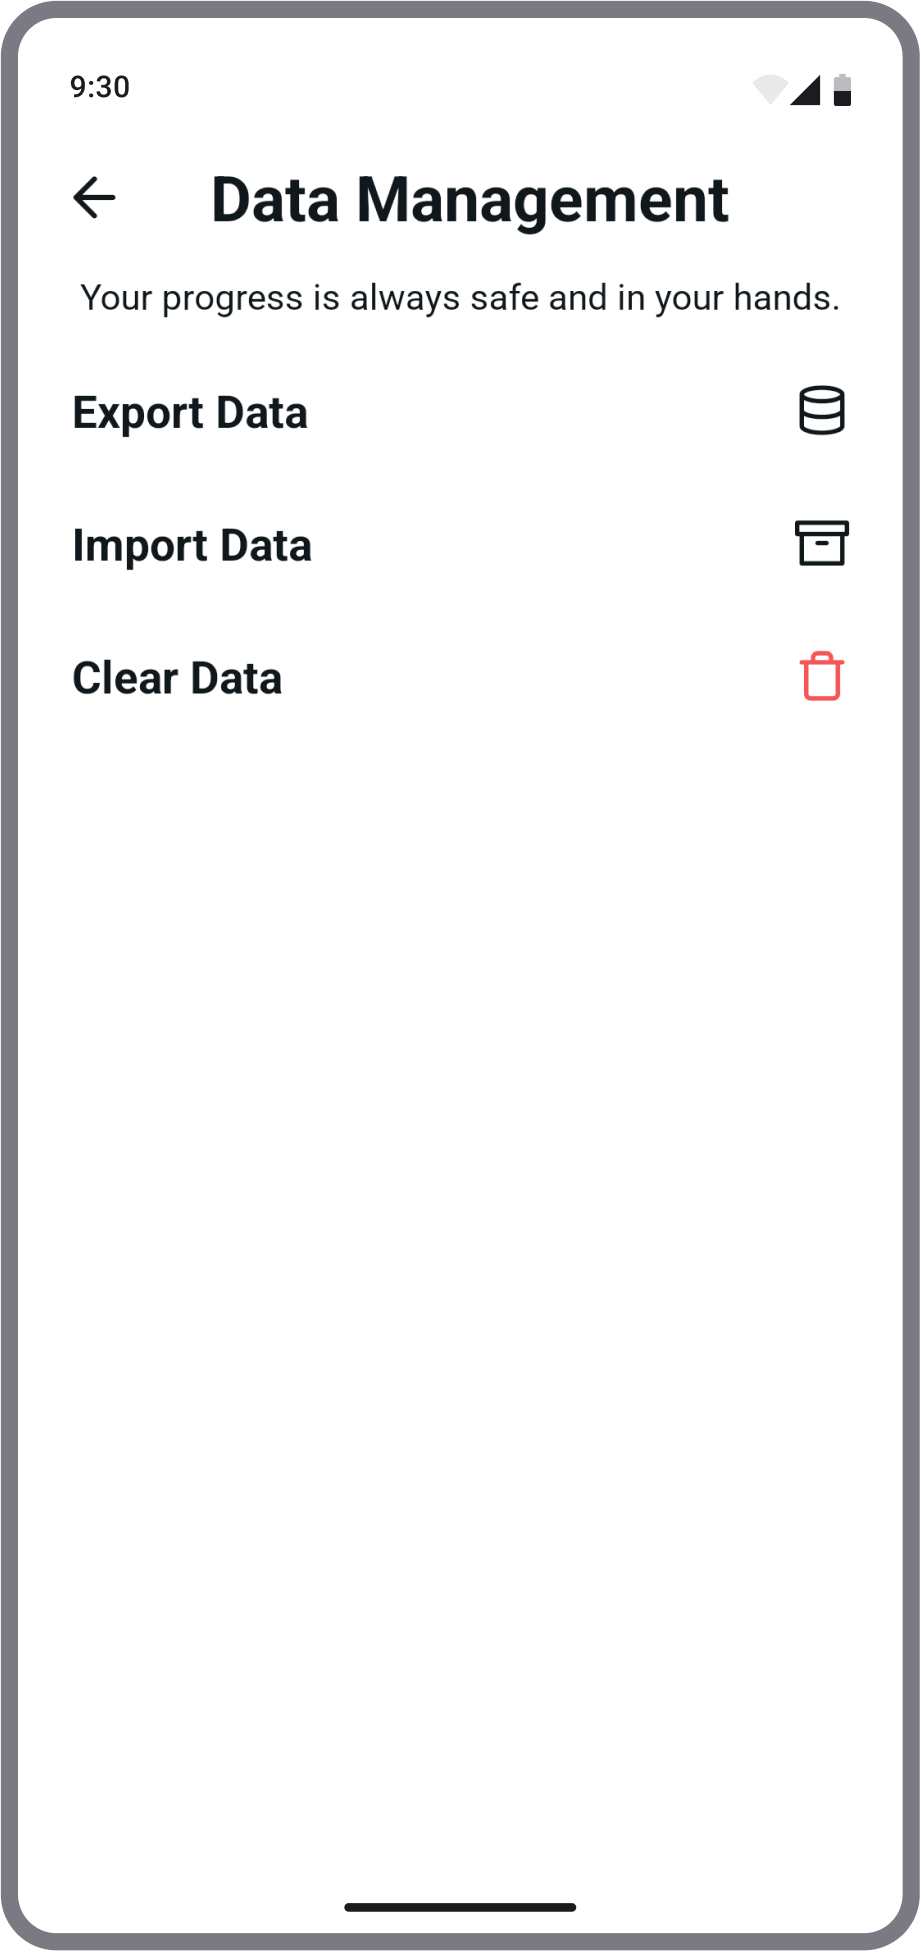
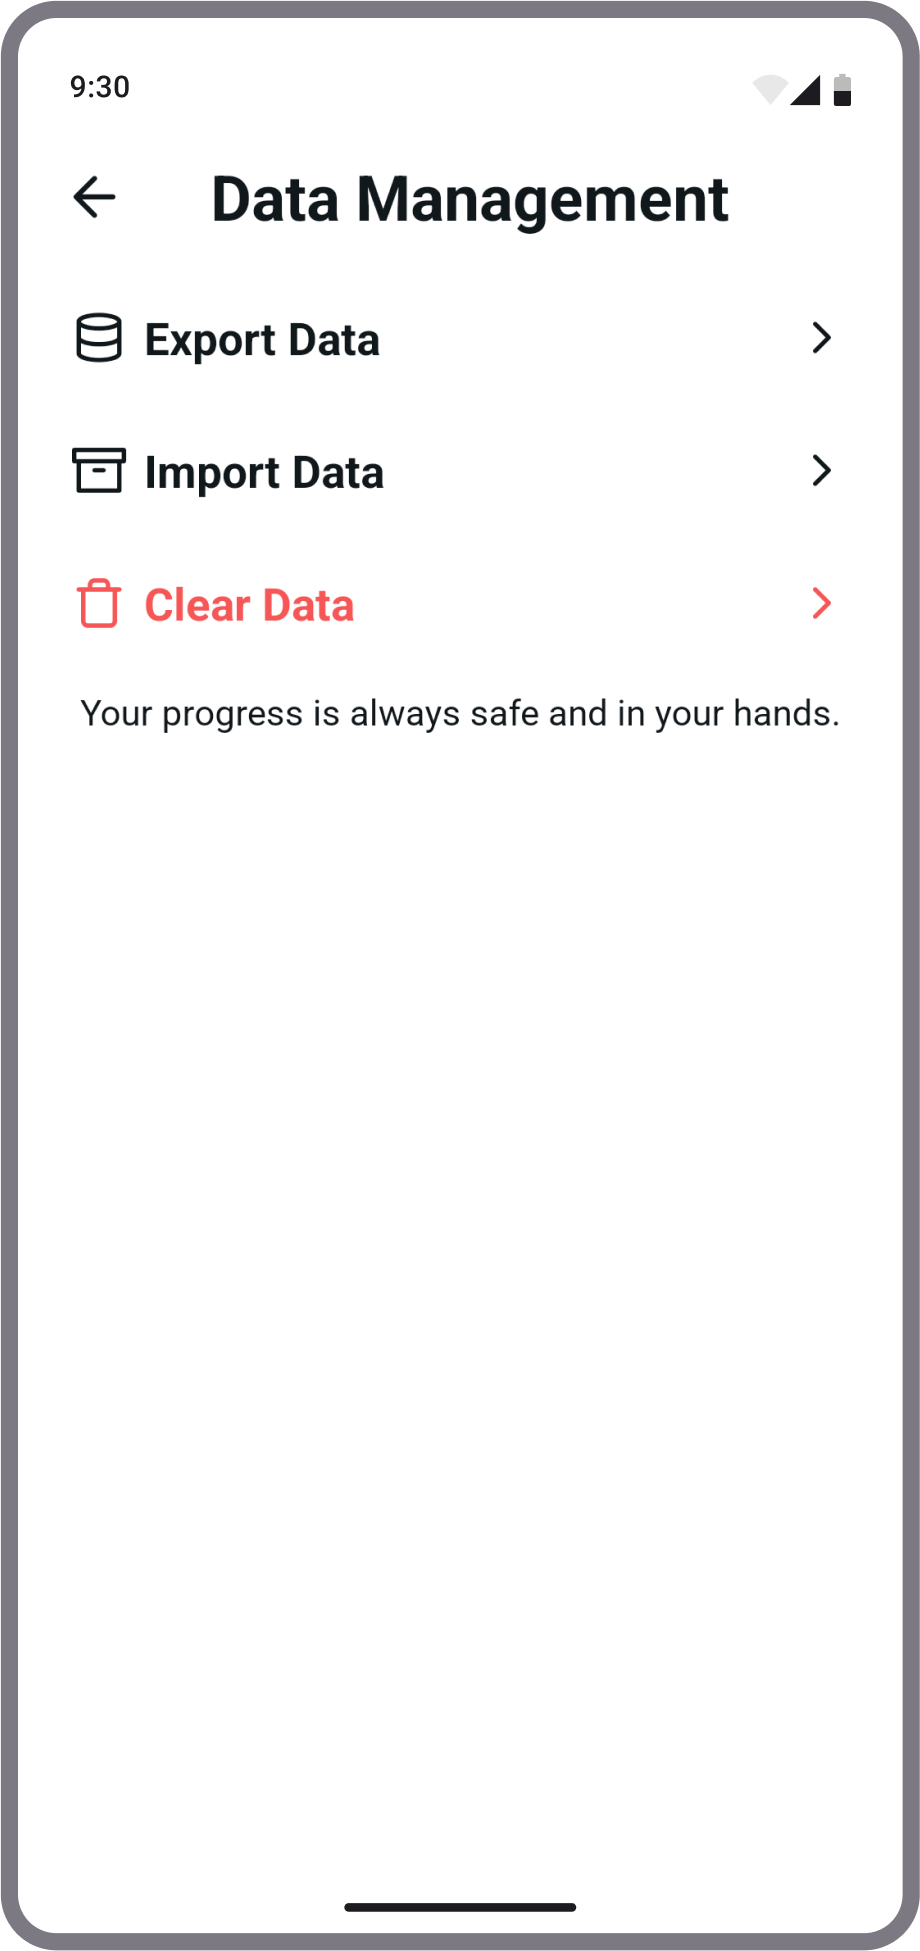
feat: detect and set language based on device locale

diff --git a/app/onboarding.tsx b/app/onboarding.tsx
@@ -16,7 +16,6 @@ import Animated, {
   useSharedValue
 } from 'react-native-reanimated'
 import { useSafeAreaInsets } from 'react-native-safe-area-context'
-
 const PAGINATION_WIDTH = 10
 const PAGINATION_GAP = 8
 
@@ -96,8 +95,10 @@ const Page = () => {
                   <Image style={styles.image} source={item.image} resizeMode="contain" />
                 </View>
                 <View style={styles.textContainer}>
-                  <ThemedText type="title">{item.title}</ThemedText>
-                  <ThemedText style={styles.description}>{item.description}</ThemedText>
+                  <ThemedText style={styles.textCenter} type="title">
+                    {item.title}
+                  </ThemedText>
+                  <ThemedText style={styles.textCenter}>{item.description}</ThemedText>
                 </View>
               </View>
             )
@@ -177,10 +178,9 @@ const styles = StyleSheet.create({
   },
   itemContainer: {
     flex: 1,
+    gap: 8,
     width: WINDOW_WIDTH,
-    paddingHorizontal: CONTAINER_PADDING,
-    borderWidth: 1,
-    borderColor: 'red'
+    paddingHorizontal: CONTAINER_PADDING
   },
   imageContainer: {
     maxHeight: '80%',
@@ -193,10 +193,8 @@ const styles = StyleSheet.create({
     height: '100%'
   },
   textContainer: {
-    // flex: 1,
     alignItems: 'center',
-    // justifyContent: 'center',
     gap: 8
   },
-  description: { textAlign: 'center' }
+  textCenter: { textAlign: 'center' }
 })

diff --git a/components/bottomSheet/LanguagePicker.tsx b/components/bottomSheet/LanguagePicker.tsx
@@ -1,10 +1,10 @@
 import { Colors } from '@/constants/Colors'
 import { LANGUAGES } from '@/constants/Language'
 import { useColorScheme } from '@/hooks/useColorScheme'
-import LocaleConfig from '@/locales/calendar'
 import { useDatabase } from '@/providers/DatabaseProvider'
 import { useStore } from '@/store/store'
 import { Language } from '@/types/global'
+import { setAppLanguage } from '@/utils/language'
 import { rescheduleAllHabitNotifications } from '@/utils/notification'
 import React from 'react'
 import { useTranslation } from 'react-i18next'
@@ -14,15 +14,14 @@ import { ThemedText } from '../ui/ThemedText'
 
 const LanguagePicker = () => {
   const theme = useColorScheme()
-  const { t, i18n } = useTranslation()
+  const { t } = useTranslation()
   const { db } = useDatabase()
   const currentLanguage = useStore(state => state.language)
   const setLanguage = useStore(state => state.setLanguage)
 
   const onPress = (value: Language) => {
-    i18n.changeLanguage(value)
     setLanguage(value)
-    LocaleConfig.defaultLocale = i18n.language // Update calendar locale
+    setAppLanguage(value) // Update calendar locale
     rescheduleAllHabitNotifications(db, useStore.getState().habits) // Reschedule notifications after language change
   }
 

diff --git a/app/(root)/settings/data-management.tsx b/app/(root)/settings/data-management.tsx
@@ -124,9 +124,7 @@ const Page = () => {
         leftIcon="arrow-left"
         onLeftPress={() => router.back()}
       />
-      <ThemedText style={{ textAlign: 'center' }}>
-        Your progress is always safe and in your hands.
-      </ThemedText>
+
       <View>
         {managementOptions.map(({ title, onPress, icon, color }) => (
           <Pressable
@@ -134,11 +132,19 @@ const Page = () => {
             key={title}
             style={({ pressed }) => [styles.itemContainer, { opacity: pressed ? 0.5 : 1 }]}
           >
-            <ThemedText type="subtitle">{title}</ThemedText>
-            <Icon name={icon} color={color || Colors[theme].text} />
+            <View style={styles.valueContainer}>
+              <Icon name={icon} color={color || Colors[theme].text} />
+              <ThemedText lightColor={color} darkColor={color} type="subtitle">
+                {title}
+              </ThemedText>
+            </View>
+            <Icon name={'chevron-right'} color={color || Colors[theme].text} />
           </Pressable>
         ))}
       </View>
+      <ThemedText style={{ textAlign: 'center' }}>
+        {t('settings.dataManagement.description')}
+      </ThemedText>
     </View>
   )
 }

diff --git a/store/store.ts b/store/store.ts
@@ -10,7 +10,7 @@ interface Store {
   onBoardingCompleted: boolean
   setOnBoardingCompleted: (onBoardingCompleted: boolean) => void
 
-  language: Language
+  language: Language | null
   setLanguage: (language: Language) => void
 
   /* <-- Habits --> */
@@ -24,10 +24,11 @@ export const useStore = create<Store>()(
       /* <-- Common --> */
       theme: 'system',
       setTheme: theme => set({ theme }),
+
       onBoardingCompleted: false,
       setOnBoardingCompleted: onBoardingCompleted => set({ onBoardingCompleted }),
 
-      language: 'en',
+      language: null,
       setLanguage: language => set({ language }),
 
       /* <-- Habits --> */
@@ -39,7 +40,8 @@ export const useStore = create<Store>()(
       storage: createJSONStorage(() => zustandStorage),
       partialize: state => ({
         theme: state.theme,
-        language: state.language
+        language: state.language,
+        onBoardingCompleted: state.onBoardingCompleted
       })
     }
   )

diff --git a/app/_layout.tsx b/app/_layout.tsx
@@ -1,9 +1,8 @@
 import { Colors, DarkTheme, LightTheme } from '@/constants/Colors'
 import { useColorScheme } from '@/hooks/useColorScheme'
 import '@/i18n'
-import i18n from '@/i18n'
-import LocaleConfig from '@/locales/calendar'
 import { useStore } from '@/store/store'
+import { getLocalLanguage, setAppLanguage } from '@/utils/language'
 import { ThemeProvider } from '@react-navigation/native'
 import * as Notifications from 'expo-notifications'
 import { SplashScreen, Stack } from 'expo-router'
@@ -22,10 +21,10 @@ Notifications.setNotificationHandler({
   })
 })
 
-const language = useStore.getState().language
+const storedLanguage = useStore.getState().language
 
-i18n.changeLanguage(language)
-LocaleConfig.defaultLocale = language || 'en'
+const language = storedLanguage || getLocalLanguage()
+setAppLanguage(language)
 
 SplashScreen.preventAutoHideAsync()
 export default function RootLayout() {

diff --git a/utils/language.ts b/utils/language.ts
@@ -1,0 +1,25 @@
+import { LANGUAGES } from '@/constants/Language'
+import i18n from '@/i18n'
+import LocaleConfig from '@/locales/calendar'
+import { useStore } from '@/store/store'
+import { Language } from '@/types/global'
+import { getLocales } from 'expo-localization'
+
+const supportedLanguages: Language[] = LANGUAGES.map(l => l.code)
+
+const getLocalLanguage = () => {
+  const localLanguage = getLocales().find(l =>
+    supportedLanguages.includes(l.languageCode as Language)
+  )?.languageCode as Language
+  console.log('localLanguage', localLanguage)
+
+  return localLanguage || 'en'
+}
+
+const setAppLanguage = (currentLanguage: Language) => {
+  useStore.setState({ language: currentLanguage })
+  i18n.changeLanguage(currentLanguage)
+  LocaleConfig.defaultLocale = currentLanguage
+}
+
+export { getLocalLanguage, setAppLanguage }

diff --git a/app/(root)/settings/appearance.tsx b/app/(root)/settings/appearance.tsx
@@ -30,7 +30,7 @@ const Page = () => {
   const theme = useColorScheme()
   const { t } = useTranslation()
   const selectedTheme = useStore(state => state.theme)
-  const currentLanguage = useStore(state => state.language)
+  const currentLanguage = useStore(state => state.language) ?? 'en'
   const bottomSheetRef = React.useRef<BottomSheetMethods>(null)
   const [bottomSheetContentType, setBottomSheetContentType] =
     useState<BottomSheetContentType>('theme')
